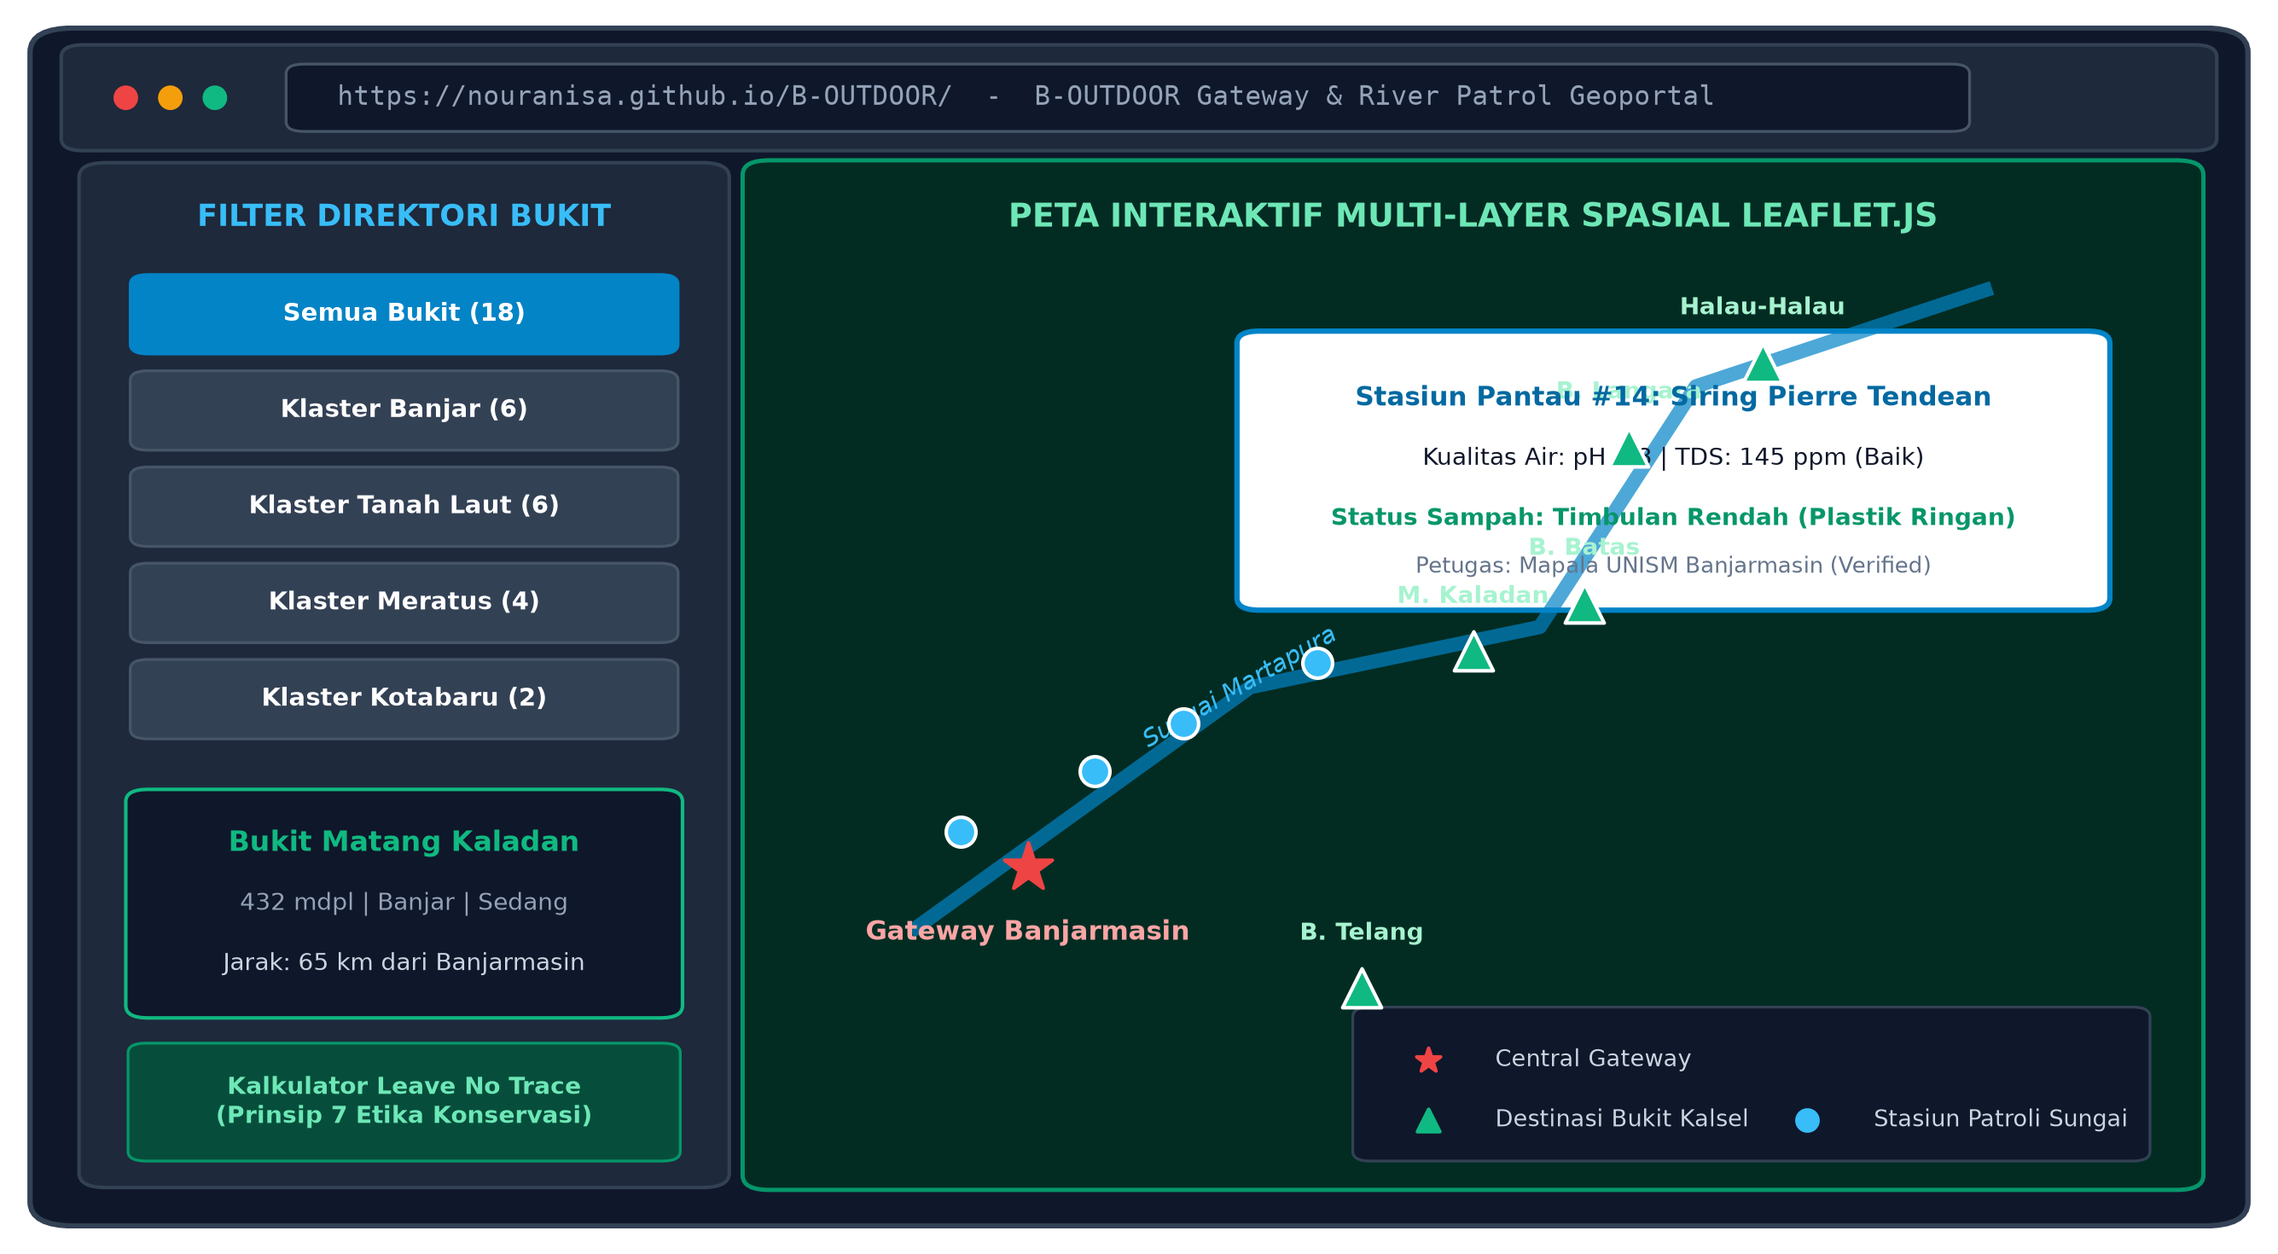
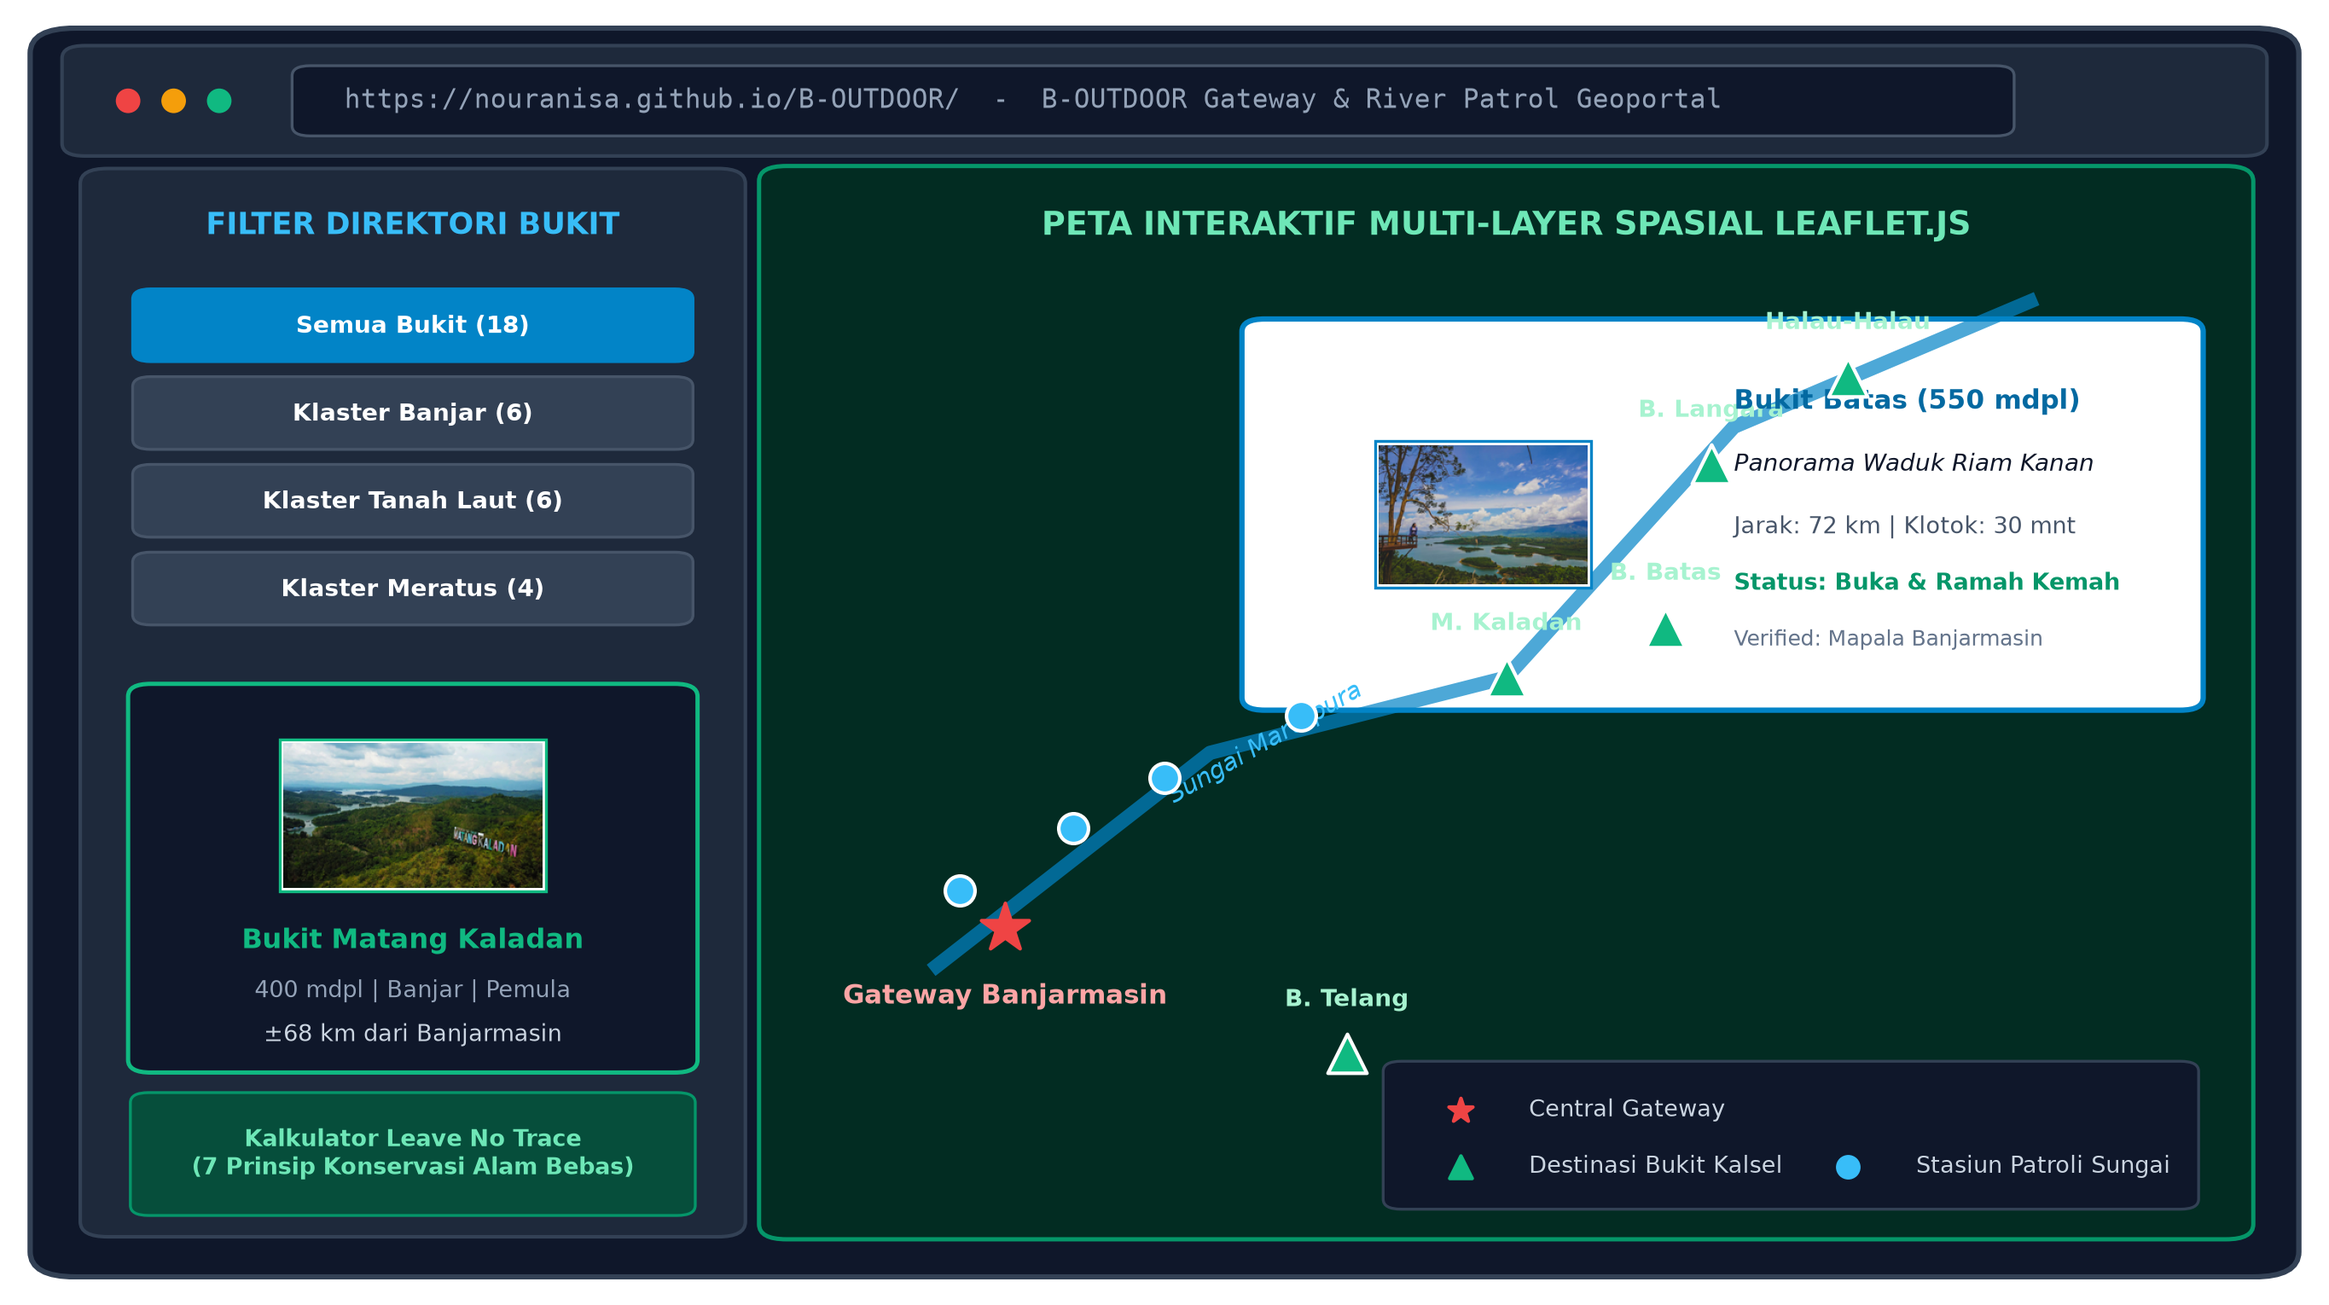
feat: update real hill photos for 9 Kalsel destinations in webgis and paper

diff --git a/index.html b/index.html
@@ -70,7 +70,7 @@
             box-shadow: 0 10px 25px -5px rgba(0, 0, 0, 0.2);
         }
         .hero-gradient {
-            background: linear-gradient(135deg, rgba(5, 46, 22, 0.92) 0%, rgba(12, 74, 110, 0.88) 100%), url('https://images.unsplash.com/photo-1506744038136-46273834b3fb?auto=format&fit=crop&w=1920&q=80') center/cover no-repeat;
+            background: linear-gradient(135deg, rgba(5, 46, 22, 0.92) 0%, rgba(12, 74, 110, 0.88) 100%), url('img/bukit-matang-kaladan.jpg') center/cover no-repeat;
         }
         .badge-pulse {
             animation: pulse 2s cubic-bezier(0.4, 0, 0.6, 1) infinite;
@@ -685,7 +685,7 @@
                 campSpot: "Puncak perkemahan panorama waduk",
                 lat: -3.5135,
                 lng: 115.0347,
-                image: "https://images.unsplash.com/photo-1506744038136-46273834b3fb?auto=format&fit=crop&w=600&q=80",
+                image: "img/bukit-matang-kaladan.jpg",
                 desc: "Ikonik dengan panorama gugusan pulau-pulau Waduk Riam Kanan yang sering dijuluki 'Raja Ampat-nya Kalimantan Selatan'. Sangat ramah untuk pendaki pemula dan keluarga."
             },
             {
@@ -706,7 +706,7 @@
                 campSpot: "Punggungan savana rumput hijau",
                 lat: -3.6823,
                 lng: 114.7891,
-                image: "https://images.unsplash.com/photo-1464822759023-fed622ff2c3b?auto=format&fit=crop&w=600&q=80",
+                image: "img/bukit-telang.jpg",
                 desc: "Hamparan bukit savana hijau berundak yang mirip pemandangan bukit Sumba. Menjadi spot sunrise dan fotografi lanskap favorit anak muda di Kalsel."
             },
             {
@@ -727,7 +727,7 @@
                 campSpot: "Puncak bukit pandang waduk luas",
                 lat: -3.5358,
                 lng: 115.0812,
-                image: "https://images.unsplash.com/photo-1470071459604-3b5ec3a7fe05?auto=format&fit=crop&w=600&q=80",
+                image: "img/bukit-batas.jpg",
                 desc: "Destinasi legendaris pecinta alam di seberang Waduk Riam Kanan. Menawarkan jalur pendakian hutan tropis yang rimbun dengan pemandangan waduk dari elevasi lebih tinggi."
             },
             {
@@ -748,7 +748,7 @@
                 campSpot: "Puncak savana pemandangan laut",
                 lat: -3.9142,
                 lng: 114.7314,
-                image: "https://images.unsplash.com/photo-1519681393784-d120267933ba?auto=format&fit=crop&w=600&q=80",
+                image: "img/bukit-birah.jpg",
                 desc: "Bukit savana pesisir yang mempesona. Dari puncaknya, pendaki dapat menikmati perpaduan pemandangan padang rumput hijau dan garis pantai Laut Jawa di kejauhan."
             },
             {
@@ -769,7 +769,7 @@
                 campSpot: "Puncak bebatuan karst terbatas",
                 lat: -2.7931,
                 lng: 115.4854,
-                image: "https://images.unsplash.com/photo-1434725039720-aaad6dd32dfe?auto=format&fit=crop&w=600&q=80",
+                image: "img/bukit-langara.jpg",
                 desc: "Formasi tebing batu karst purba Pegunungan Meratus yang menghadap langsung ke liukan Sungai Amandit dan hutan bambu Loksado. Sangat dramatis saat kabut pagi hari."
             },
             {
@@ -790,7 +790,7 @@
                 campSpot: "Pos Penyaungan & Puncak Halau-Halau",
                 lat: -2.7153,
                 lng: 115.6308,
-                image: "https://images.unsplash.com/photo-1486870591958-9b9d0d1dda99?auto=format&fit=crop&w=600&q=80",
+                image: "img/puncak-halau-halau.jpg",
                 desc: "Atap tertinggi Kalimantan Selatan dan benteng utama Geopark Pegunungan Meratus. Jalur ekspedisi rimba lumut khas hutan hujan tropis yang menjadi kebanggaan anak Mapala."
             },
             {
@@ -811,7 +811,7 @@
                 campSpot: "Villa & area perkemahan pinus",
                 lat: -3.4912,
                 lng: 114.9821,
-                image: "https://images.unsplash.com/photo-1507525428034-b723cf961d3e?auto=format&fit=crop&w=600&q=80",
+                image: "img/bukit-mawar.jpg",
                 desc: "Kawasan perbukitan pinus Kiram Park yang mudah diakses dengan fasilitas lengkap. Cocok untuk orientasi lapangan mahasiswa dan kemah konservasi."
             },
             {
@@ -832,7 +832,7 @@
                 campSpot: "Puncak lembah naga savana",
                 lat: -3.8711,
                 lng: 114.7621,
-                image: "https://images.unsplash.com/photo-1542314831-068cd1dbfeeb?auto=format&fit=crop&w=600&q=80",
+                image: "img/bukit-lebak-naga.jpg",
                 desc: "Bukit savana dengan kontur menyerupai lekukan punggung naga hijau. Sangat nyaman untuk berkemah ceria dan menikmati gugusan bintang (stargazing)."
             },
             {
@@ -853,7 +853,7 @@
                 campSpot: "Puncak bukit menghadap hutan karet",
                 lat: -3.7651,
                 lng: 114.9214,
-                image: "https://images.unsplash.com/photo-1500530855697-b586d89ba3ee?auto=format&fit=crop&w=600&q=80",
+                image: "img/bukit-riam-bejanjang.jpg",
                 desc: "Memadukan pesona air terjun bertingkat (riam) di kaki bukit dengan jalur pendakian yang menantang menembus perkebunan dan hutan rimba."
             }
         ];

diff --git a/update_figures_with_real_photos.py b/update_figures_with_real_photos.py
@@ -1,0 +1,206 @@
+import os
+import matplotlib
+matplotlib.use('Agg')
+import matplotlib.pyplot as plt
+import matplotlib.patches as patches
+from matplotlib.patches import FancyBboxPatch
+from matplotlib.offsetbox import OffsetImage, AnnotationBbox
+from PIL import Image
+import numpy as np
+
+IMG_DIR = r"c:\Users\Nor Anisa\Downloads\LOMBA SI\B-OUTDOOR\img"
+
+plt.rcParams['font.family'] = 'sans-serif'
+plt.rcParams['font.sans-serif'] = ['DejaVu Sans', 'Arial', 'Helvetica']
+
+def update_fig_4_4():
+    fig, ax = plt.subplots(figsize=(9.2, 5.2), dpi=300)
+    ax.set_xlim(0, 100)
+    ax.set_ylim(0, 100)
+    ax.axis('off')
+
+    # Window frame
+    ax.add_patch(FancyBboxPatch((1, 1), 98, 98, boxstyle="round,pad=0.8,rounding_size=2",
+                                facecolor="#0f172a", edgecolor="#334155", linewidth=1.5))
+
+    # Browser Top Bar
+    ax.add_patch(FancyBboxPatch((2, 90), 96, 8, boxstyle="round,pad=0.4,rounding_size=1",
+                                facecolor="#1e293b", edgecolor="#334155", linewidth=1))
+    # Window dots
+    ax.scatter([4.5, 6.5, 8.5], [94, 94, 94], color=['#ef4444', '#f59e0b', '#10b981'], s=35)
+    # URL bar
+    ax.add_patch(FancyBboxPatch((12, 91.5), 75, 5, boxstyle="round,pad=0.3,rounding_size=0.8",
+                                facecolor="#0f172a", edgecolor="#475569", linewidth=0.8))
+    ax.text(14, 94, "https://nouranisa.github.io/B-OUTDOOR/  -  B-OUTDOOR Gateway & River Patrol Geoportal",
+            ha='left', va='center', color='#94a3b8', fontsize=7.5, fontfamily='monospace')
+
+    # Left Sidebar (Filter & Direktori Bukit)
+    ax.add_patch(FancyBboxPatch((3, 4), 28, 84, boxstyle="round,pad=0.6,rounding_size=1.2",
+                                facecolor="#1e293b", edgecolor="#334155", linewidth=1))
+    ax.text(17, 84, "FILTER DIREKTORI BUKIT", ha='center', va='center',
+            color='#38bdf8', fontsize=8.5, fontweight='bold')
+    
+    # Filter buttons
+    filters = [("Semua Bukit (18)", "#0284c7"), ("Klaster Banjar (6)", "#334155"),
+               ("Klaster Tanah Laut (6)", "#334155"), ("Klaster Meratus (4)", "#334155")]
+    for i, (f_name, bg) in enumerate(filters):
+        y = 76 - i * 7
+        ax.add_patch(FancyBboxPatch((5, y - 2.5), 24, 5.2, boxstyle="round,pad=0.3,rounding_size=0.8",
+                                    facecolor=bg, edgecolor="#0284c7" if bg != "#334155" else "#475569", linewidth=0.8))
+        ax.text(17, y, f_name, ha='center', va='center', color='white', fontsize=6.8, weight='bold')
+
+    # Card Bukit Contoh di Sidebar DENGAN FOTO ASLI MATANG KALADAN
+    card_y = 17
+    ax.add_patch(FancyBboxPatch((5, card_y), 24, 30, boxstyle="round,pad=0.5,rounding_size=1",
+                                facecolor="#0f172a", edgecolor="#10b981", linewidth=1.2))
+    
+    # Embed real Matang Kaladan photo thumbnail
+    img_mk = Image.open(os.path.join(IMG_DIR, "bukit-matang-kaladan.jpg"))
+    img_mk.thumbnail((260, 150))
+    im_box_mk = OffsetImage(img_mk, zoom=0.28)
+    ab_mk = AnnotationBbox(im_box_mk, (17, card_y + 20), frameon=True, pad=0.1,
+                           bboxprops=dict(edgecolor='#10b981', linewidth=0.8))
+    ax.add_artist(ab_mk)
+
+    ax.text(17, card_y + 10, "Bukit Matang Kaladan", ha='center', va='center', color='#10b981', fontsize=7.8, weight='bold')
+    ax.text(17, card_y + 6, "400 mdpl | Banjar | Pemula", ha='center', va='center', color='#94a3b8', fontsize=6.5)
+    ax.text(17, card_y + 2.5, "±68 km dari Banjarmasin", ha='center', va='center', color='#cbd5e1', fontsize=6.5)
+
+    # Leave No Trace Ethics Widget
+    ax.add_patch(FancyBboxPatch((5, 5.5), 24, 9, boxstyle="round,pad=0.4,rounding_size=0.8",
+                                facecolor="#064e3b", edgecolor="#059669", linewidth=0.8))
+    ax.text(17, 10, "Kalkulator Leave No Trace\n(7 Prinsip Konservasi Alam Bebas)",
+            ha='center', va='center', color='#6ee7b7', fontsize=6.5, weight='bold', multialignment='center')
+
+    # Center/Right Area: Leaflet Map Interface
+    ax.add_patch(FancyBboxPatch((33, 4), 64, 84, boxstyle="round,pad=0.8,rounding_size=1.2",
+                                facecolor="#022c22", edgecolor="#059669", linewidth=1.2))
+    
+    # Map title overlay
+    ax.text(65, 84, "PETA INTERAKTIF MULTI-LAYER SPASIAL LEAFLET.JS",
+            ha='center', va='center', color='#6ee7b7', fontsize=9, fontweight='bold')
+    
+    # Simulated map grid lines & river paths
+    ax.plot([40, 52, 65, 75, 88], [25, 42, 48, 68, 78], color='#0284c7', linewidth=4, alpha=0.7)
+    ax.text(50, 38, "Sungai Martapura", color='#38bdf8', fontsize=7, style='italic', rotation=30)
+    
+    # Map Pins
+    # Banjarmasin Gateway
+    ax.scatter(43, 28, color='#ef4444', s=200, marker='*', zorder=5)
+    ax.text(43, 22, "Gateway Banjarmasin", color='#fca5a5', fontsize=7.5, weight='bold', ha='center')
+
+    # Hills Markers
+    h_markers = [(65, 48, "M. Kaladan"), (72, 52, "B. Batas"), (58, 18, "B. Telang"),
+                 (80, 72, "Halau-Halau"), (74, 65, "B. Langara")]
+    for mx, my, mname in h_markers:
+        ax.scatter(mx, my, color='#10b981', s=120, marker='^', edgecolors='white', linewidth=1, zorder=5)
+        ax.text(mx, my + 3.8, mname, color='#a7f3d0', fontsize=6.8, ha='center', weight='bold')
+
+    # River Patrol Markers
+    r_markers = [(41, 31), (46, 36), (50, 40), (56, 45)]
+    for rx, ry in r_markers:
+        ax.scatter(rx, ry, color='#38bdf8', s=70, marker='o', edgecolors='white', linewidth=1, zorder=5)
+
+    # Interactive Popup Mockup with Real Photo of Bukit Batas
+    popup_x, popup_y = 54, 46
+    ax.add_patch(FancyBboxPatch((popup_x, popup_y), 41, 30, boxstyle="round,pad=0.6,rounding_size=1",
+                                facecolor="#ffffff", edgecolor="#0284c7", linewidth=1.5))
+    
+    # Embed real Bukit Batas thumbnail in popup
+    img_bb = Image.open(os.path.join(IMG_DIR, "bukit-batas.jpg"))
+    img_bb.thumbnail((240, 140))
+    im_box_bb = OffsetImage(img_bb, zoom=0.28)
+    ab_bb = AnnotationBbox(im_box_bb, (popup_x + 10, popup_y + 15), frameon=True, pad=0.1,
+                           bboxprops=dict(edgecolor='#0284c7', linewidth=0.8))
+    ax.add_artist(ab_bb)
+
+    # Popup text details
+    ax.text(popup_x + 21, popup_y + 24, "Bukit Batas (550 mdpl)",
+            ha='left', va='center', color='#0369a1', fontsize=7.5, fontweight='bold')
+    ax.text(popup_x + 21, popup_y + 19, "Panorama Waduk Riam Kanan",
+            ha='left', va='center', color='#0f172a', fontsize=6.8, style='italic')
+    ax.text(popup_x + 21, popup_y + 14, "Jarak: 72 km | Klotok: 30 mnt",
+            ha='left', va='center', color='#475569', fontsize=6.5)
+    ax.text(popup_x + 21, popup_y + 9.5, "Status: Buka & Ramah Kemah",
+            ha='left', va='center', color='#059669', fontsize=6.5, weight='bold')
+    ax.text(popup_x + 21, popup_y + 5, "Verified: Mapala Banjarmasin",
+            ha='left', va='center', color='#64748b', fontsize=6.0)
+
+    # Map Legend at Bottom Right
+    ax.add_patch(FancyBboxPatch((60, 6), 35, 11, boxstyle="round,pad=0.4,rounding_size=0.8",
+                                facecolor="#0f172a", edgecolor="#334155", linewidth=0.8))
+    ax.scatter([63], [13.5], color='#ef4444', s=50, marker='*')
+    ax.text(66, 13.5, "Central Gateway", color='#cbd5e1', fontsize=6.5, va='center')
+    ax.scatter([63], [9], color='#10b981', s=40, marker='^')
+    ax.text(66, 9, "Destinasi Bukit Kalsel", color='#cbd5e1', fontsize=6.5, va='center')
+    ax.scatter([80], [9], color='#38bdf8', s=35, marker='o')
+    ax.text(83, 9, "Stasiun Patroli Sungai", color='#cbd5e1', fontsize=6.5, va='center')
+
+    plt.tight_layout()
+    out_path = os.path.join(IMG_DIR, "fig_4_4_geoportal_ui.png")
+    fig.savefig(out_path, dpi=300, bbox_inches='tight')
+    plt.close()
+    print("Updated:", out_path)
+
+def make_fig_hills_gallery():
+    # 3x3 Photo Grid of 9 Hills
+    fig, axes = plt.subplots(3, 3, figsize=(9.6, 9.6), dpi=300)
+    fig.patch.set_facecolor('#ffffff')
+
+    hills_info = [
+        ("bukit-matang-kaladan.jpg", "1. Bukit Matang Kaladan", "400 mdpl | Aranio, Banjar", "Gugusan Waduk Riam Kanan"),
+        ("bukit-telang.jpg", "2. Bukit Telang", "350 mdpl | Tambang Ulang, Tala", "Savana Berundak Hijau"),
+        ("bukit-batas.jpg", "3. Bukit Batas", "550 mdpl | Tiwingan Lama, Banjar", "Jalur Hutan & Panorama Danau"),
+        ("bukit-birah.jpg", "4. Bukit Birah", "380 mdpl | Panyipatan, Tala", "Pemandangan Savana & Garis Laut"),
+        ("bukit-langara.jpg", "5. Bukit Langara", "500 mdpl | Loksado, HSS", "Tebing Karst Purba Meratus"),
+        ("puncak-halau-halau.jpg", "6. Puncak Halau-Halau", "1.901 mdpl | Batang Alai, HST", "Atap Tertinggi Hutan Tropis Kalsel"),
+        ("bukit-mawar.jpg", "7. Bukit Mawar (Kiram)", "320 mdpl | Karang Intan, Banjar", "Ekowisata Pinus Ramah Keluarga"),
+        ("bukit-lebak-naga.jpg", "8. Bukit Lebak Naga", "360 mdpl | Pelaihari, Tala", "Lekukan Punggung Naga Savana"),
+        ("bukit-riam-bejanjang.jpg", "9. Bukit Riam Bejanjang", "410 mdpl | Batu Ampar, Tala", "Kombinasi Air Terjun & Bukit")
+    ]
+
+    for idx, (img_file, title, meta, desc) in enumerate(hills_info):
+        r, c = idx // 3, idx % 3
+        ax = axes[r, c]
+        ax.set_facecolor('#f8fafc')
+        
+        img_p = os.path.join(IMG_DIR, img_file)
+        if os.path.exists(img_p):
+            with Image.open(img_p) as im:
+                # Center-crop or fit to 4:3
+                im_rgb = im.convert('RGB')
+                w, h = im_rgb.size
+                target_ratio = 4.0 / 3.0
+                current_ratio = w / h
+                if current_ratio > target_ratio:
+                    new_w = int(h * target_ratio)
+                    left = (w - new_w) // 2
+                    im_crop = im_rgb.crop((left, 0, left + new_w, h))
+                else:
+                    new_h = int(w / target_ratio)
+                    top = (h - new_h) // 2
+                    im_crop = im_rgb.crop((0, top, w, top + new_h))
+                
+                ax.imshow(im_crop)
+        
+        ax.set_xticks([])
+        ax.set_yticks([])
+        for spine in ax.spines.values():
+            spine.set_color('#166534')
+            spine.set_linewidth(1.5)
+
+        # Labels below image
+        ax.set_title(title, fontsize=8.5, fontweight='bold', color='#166534', pad=4)
+        ax.set_xlabel(f"{meta}\n({desc})", fontsize=7.2, color='#334155', labelpad=3)
+
+    plt.suptitle("DOKUMENTASI FOTOGRAFI 9 DESTINASI PERBUKITAN EKSOTIS KALIMANTAN SELATAN\n(Platform Geoportal B-OUTDOOR — Titik Tolak Central Gateway Kota Banjarmasin)",
+                 fontsize=10.5, fontweight='bold', color='#14532d', y=0.99)
+    plt.tight_layout()
+    out_gallery = os.path.join(IMG_DIR, "fig_hills_gallery.png")
+    fig.savefig(out_gallery, dpi=300, bbox_inches='tight')
+    plt.close()
+    print("Created Gallery:", out_gallery)
+
+if __name__ == "__main__":
+    update_fig_4_4()
+    make_fig_hills_gallery()

diff --git a/build_b_outdoor_paper.py b/build_b_outdoor_paper.py
@@ -933,6 +933,8 @@ def build_full_paper_b_outdoor():
         col_widths_cm=[0.8, 3.8, 5.5, 3.9]
     )
 
+    add_figure(doc, "fig_hills_gallery.png", "Lampiran Gambar 1. Dokumentasi Lanskap 9 Destinasi Perbukitan Unggulan Kalimantan Selatan pada Platform B-OUTDOOR", width_cm=13.5)
+
     for s in doc.sections:
         configure_section_margins(s)
 
